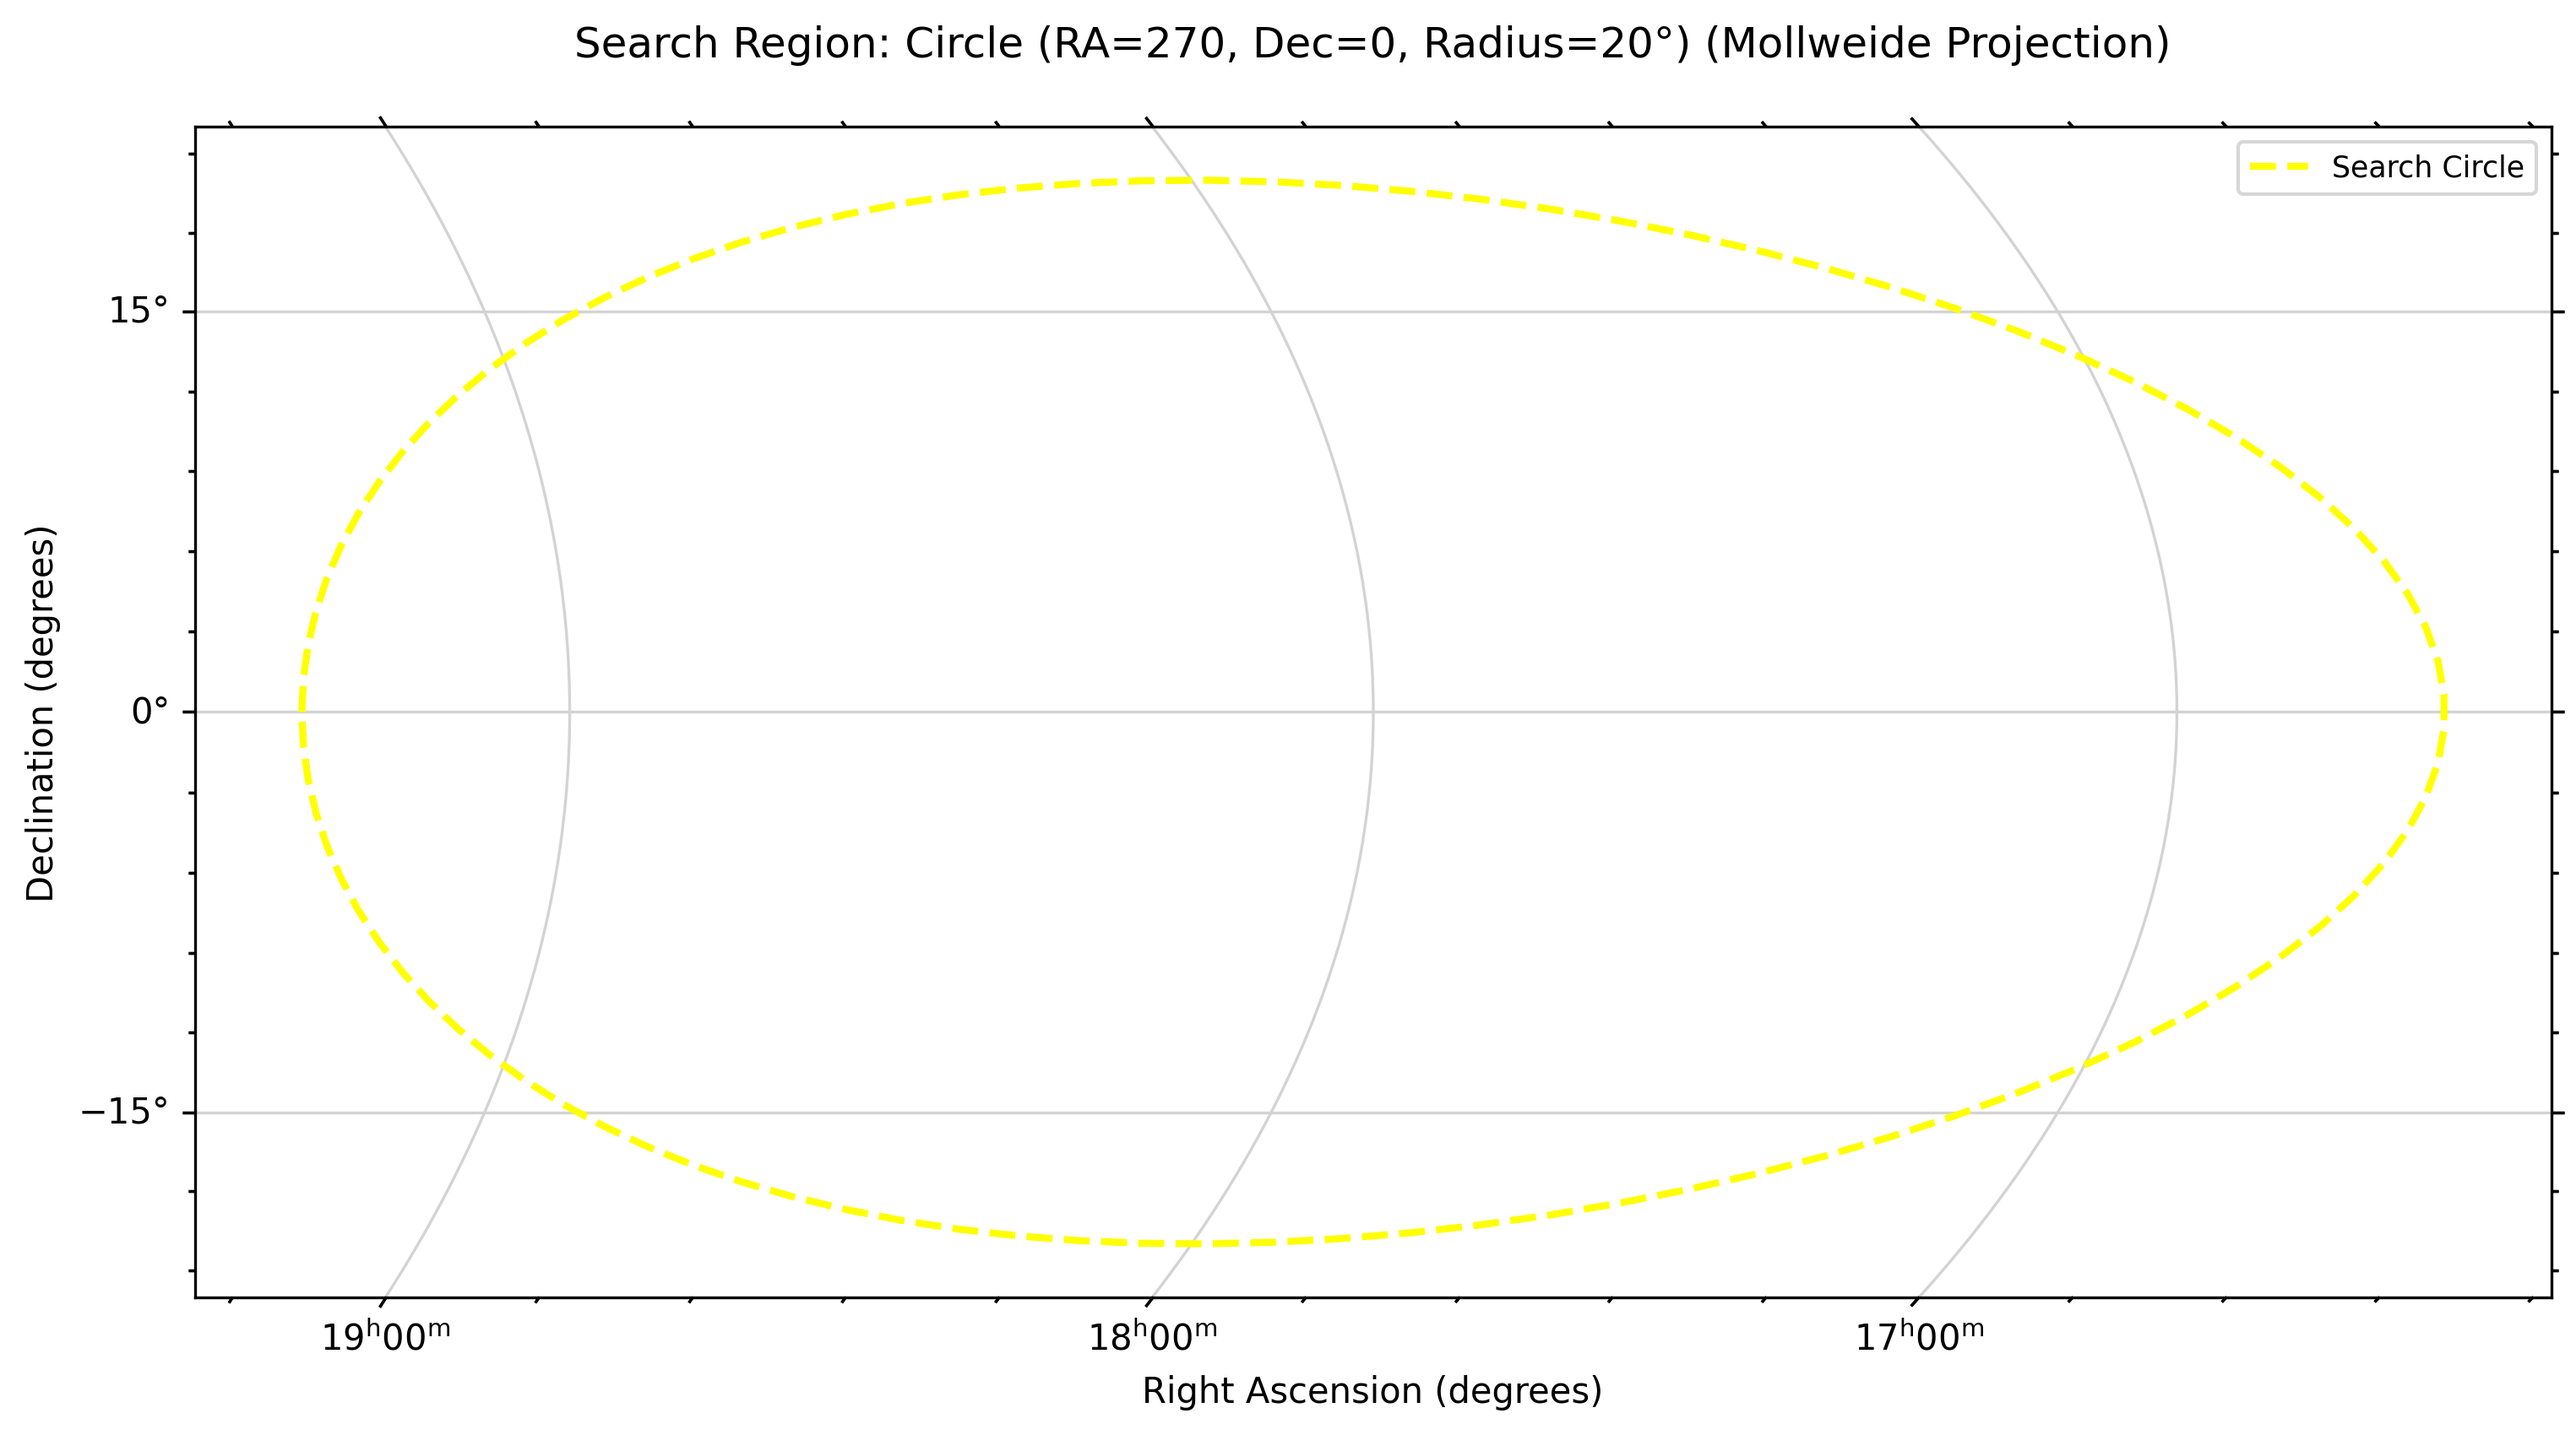
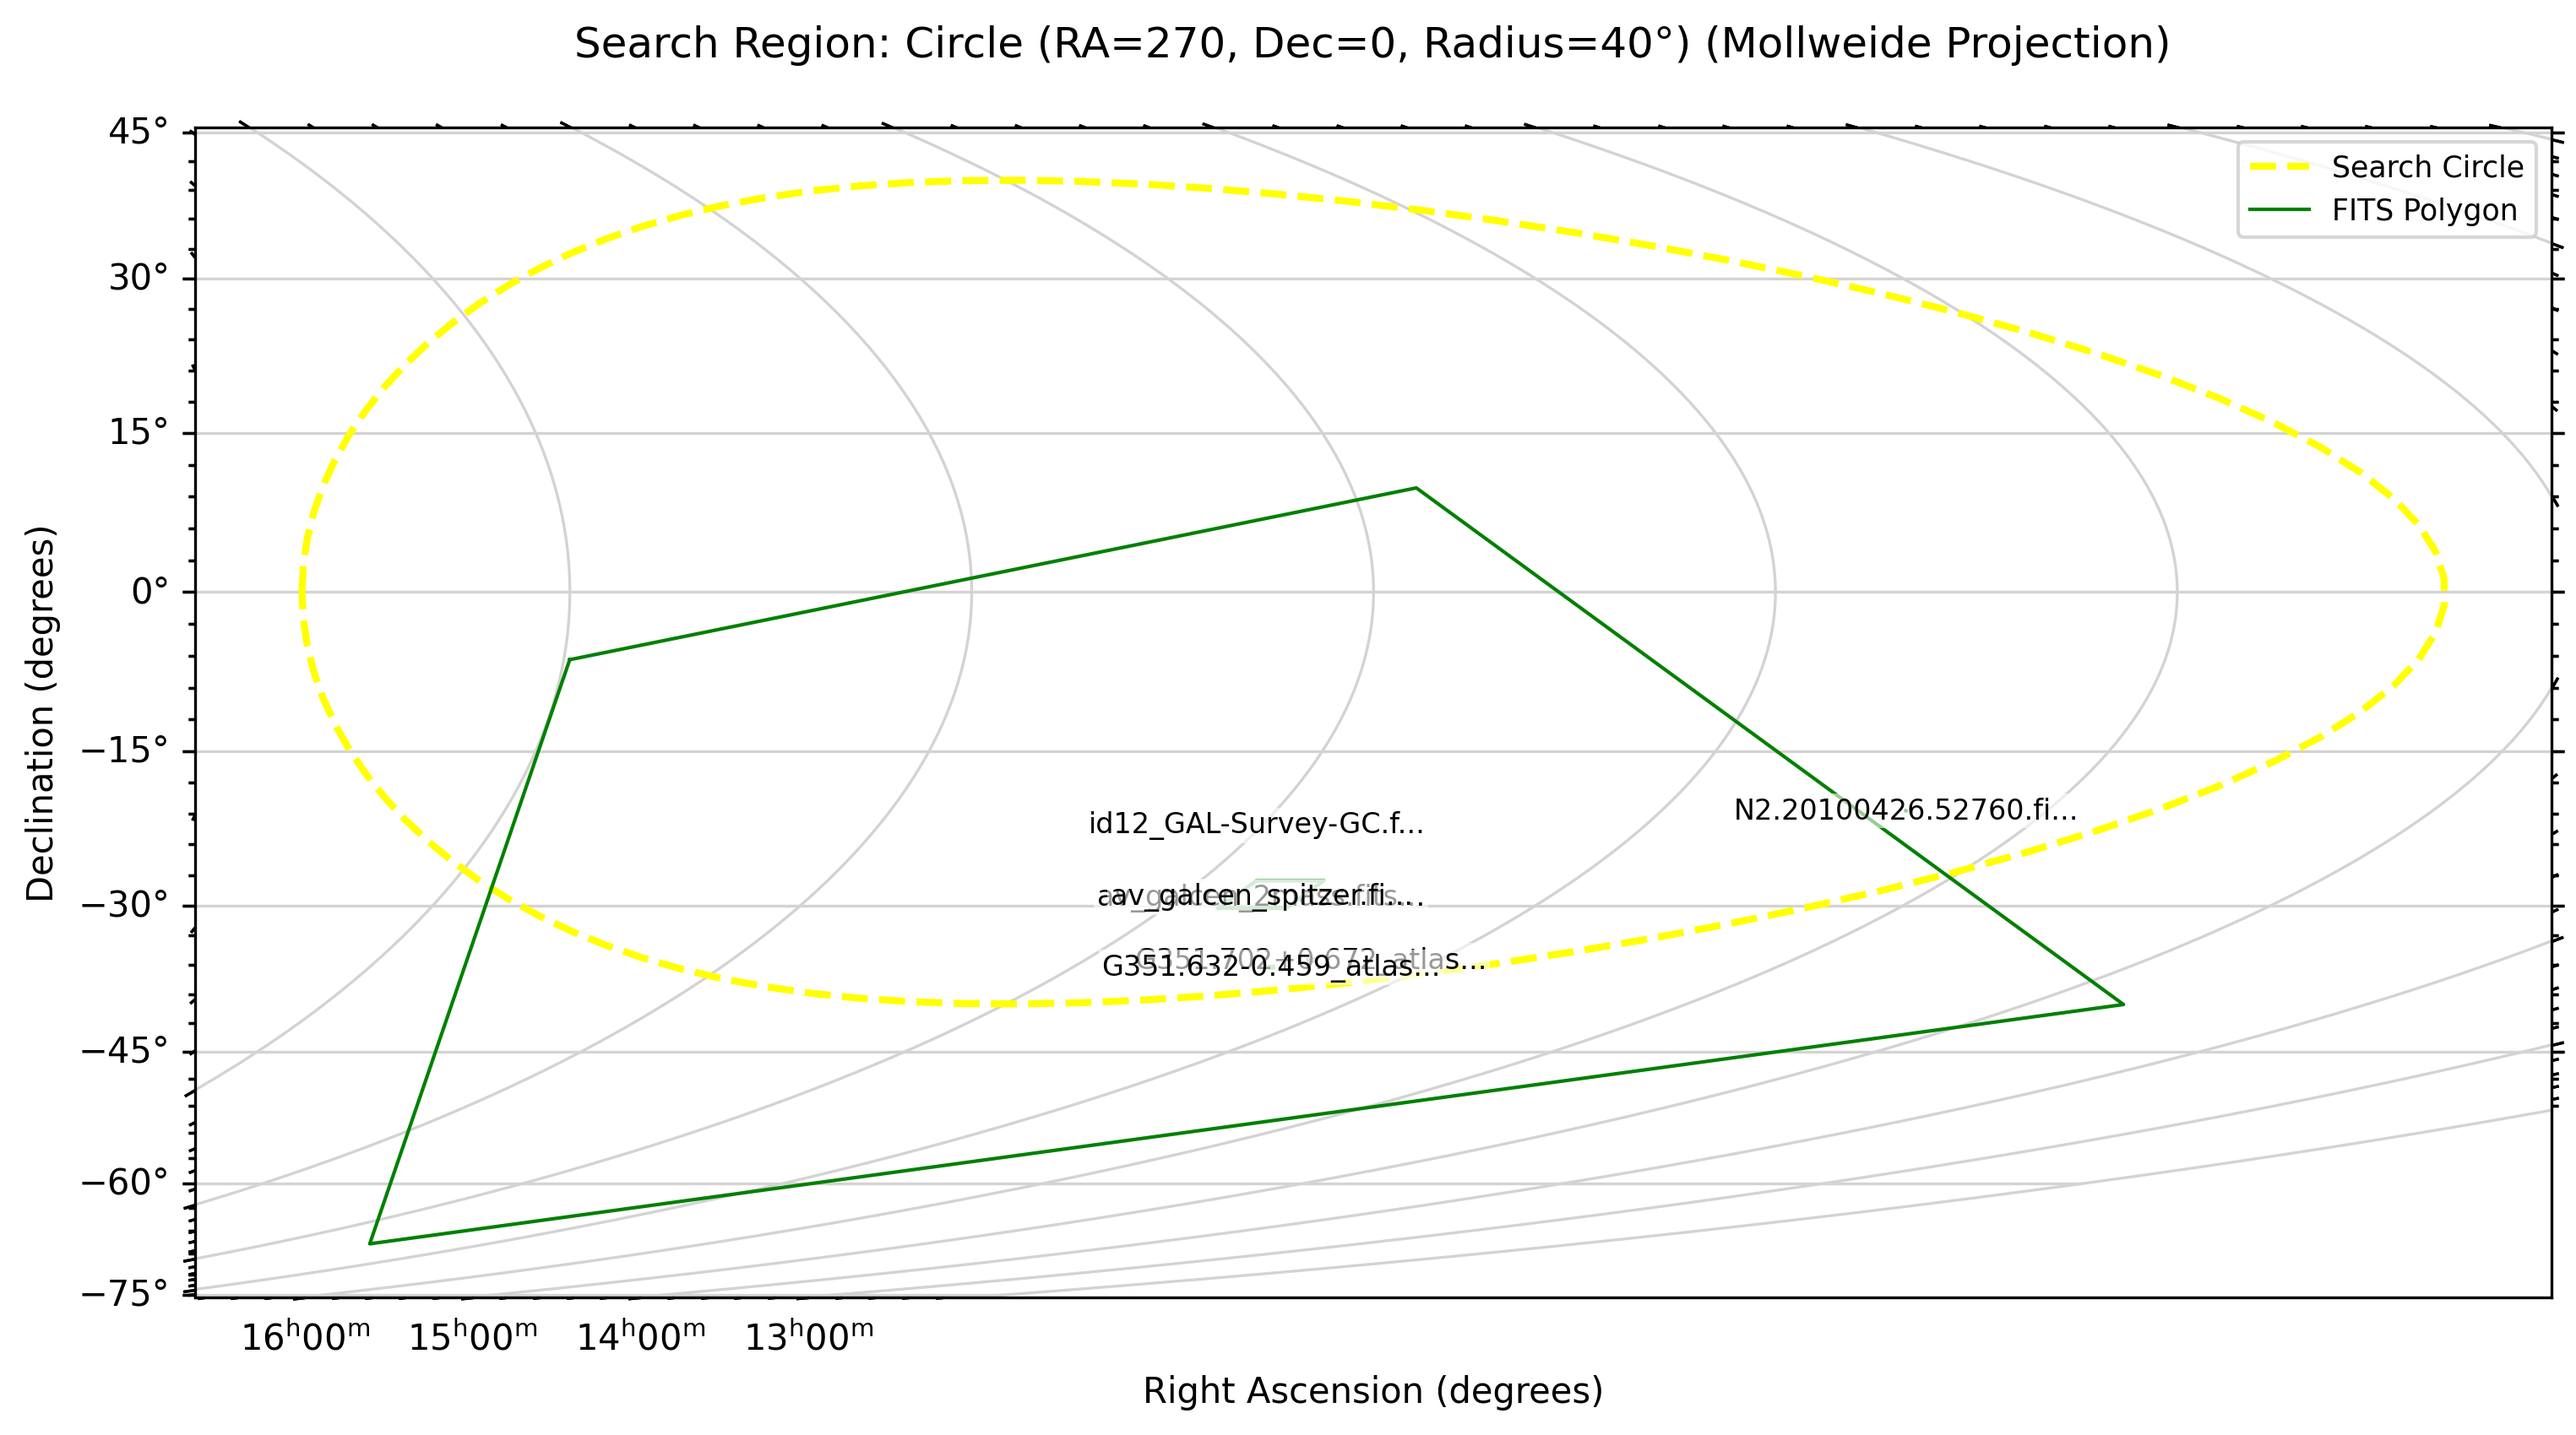
Enhance search region plotting by increasing radius and adding FITS file labels

diff --git a/fits_metadata_extractor/plotter.py b/fits_metadata_extractor/plotter.py
@@ -415,6 +415,7 @@ def plot_search_region_and_find_fits(
 ):
     """
     Plots the search region and overlays the coverage of matching FITS files using WCS transformations.
+    Each FITS file's name is labeled alongside its polygon on the plot.
 
     Parameters:
         metadata_df (pandas.DataFrame):
@@ -601,9 +602,8 @@ def plot_search_region_and_find_fits(
     ):
         fits_file = row.get('FITS_File', None)
         polygon_coords_str = row.get('Polygon_Coords', None)
-        moc_str = row.get('MOC', None)
 
-        if pd.isnull(fits_file) or pd.isnull(polygon_coords_str) or pd.isnull(moc_str):
+        if pd.isnull(fits_file) or pd.isnull(polygon_coords_str):
             logging.warning(f"Missing data for FITS file in row {idx}. Skipping.")
             continue
 
@@ -631,23 +631,6 @@ def plot_search_region_and_find_fits(
                     else:
                         logging.error(f"Unsupported coordinate system in {fits_file}: {ctype1}, {ctype2}")
                         continue  # Skip this FITS file
-
-                # Deserialize the MOC string
-                moc = MOC.from_string(moc_str)
-
-                # If the MOC is in a different coordinate frame, transform it to ICRS
-                if coord_frame == 'galactic':
-                    moc = moc.to_icrs()
-
-                # Plot the MOC using the main WCS
-                try:
-                    # Use unique label only once
-                    label_moc = 'FITS MOC' if idx == matching_df.index[0] else ""
-                    moc.fill(ax=ax, wcs=main_wcs, alpha=0.3, label=label_moc, color='blue')
-                    moc.border(ax=ax, wcs=main_wcs, color='blue', linewidth=1.0)
-                except Exception as e:
-                    logging.error(f"Failed to plot MOC for '{fits_file}': {e}")
-                    continue
 
                 # Deserialize and plot the polygon
                 try:
@@ -695,15 +678,41 @@ def plot_search_region_and_find_fits(
                     ra_deg = sky_coords.ra.wrap_at(180 * u.deg).deg
                     dec_deg = sky_coords.dec.deg
 
-                    # Use unique label only once
-                    label_polygon = 'FITS Polygon' if idx == matching_df.index[0] else ""
+                    # Plot the polygon
                     ax.plot(
                         ra_deg,
                         dec_deg,
                         color='green',
                         linewidth=1,
-                        label=label_polygon,
+                        label='FITS Polygon' if idx == matching_df.index[0] else "",
                         transform=ax.get_transform('world')
+                    )
+
+                    # Calculate centroid for labeling
+                    # Using spherical mean to account for celestial coordinates
+                    centroid = SkyCoord(
+                        ra=np.mean(sky_coords.ra.wrap_at(180 * u.deg).deg) * u.deg,
+                        dec=np.mean(sky_coords.dec.deg) * u.deg,
+                        frame='icrs'
+                    )
+                    ra_centroid = centroid.ra.wrap_at(180 * u.deg).deg
+                    dec_centroid = centroid.dec.deg
+
+                    # Ensure fits_file name not to be too long
+                    if len(fits_file) > 10:
+                        fits_file = fits_file[:20] + '...'
+
+                    # Add FITS file name as a label near the centroid
+                    ax.text(
+                        ra_centroid,
+                        dec_centroid,
+                        fits_file,
+                        transform=ax.get_transform('world'),
+                        fontsize=8,
+                        color='black',
+                        ha='center',
+                        va='center',
+                        bbox=dict(facecolor='white', alpha=0.6, edgecolor='none', pad=1)
                     )
 
                 except json.JSONDecodeError as e:

diff --git a/test.py b/test.py
@@ -7,7 +7,7 @@ import matplotlib.pyplot as plt
 from fits_metadata_extractor.processor import FITSProcessor
 from fits_metadata_extractor.utils import save_metadata_to_csv, load_metadata_from_csv
 from fits_metadata_extractor.search import search_fits_by_point, search_fits_by_region
-from fits_metadata_extractor.plotter import plot_moc_and_polygon_from_dataset_notebook, test, plot_search_region_and_find_fits
+from fits_metadata_extractor.plotter import plot_moc_and_polygon_from_dataset_notebook, plot_search_region_and_find_fits
 from fits_metadata_extractor.logger import setup_logging
 
 # Define the output CSV file path
@@ -20,7 +20,7 @@ metadata_df = load_metadata_from_csv(output_csv)
 search_region = {
     'type': 'circle',
     'center': (270, 0),  # RA=150.0°, Dec=2.2°
-    'radius': 20           # 5 degrees radius
+    'radius' : 40          # 5 degrees radius
 }
 
 # Call the plotting function
